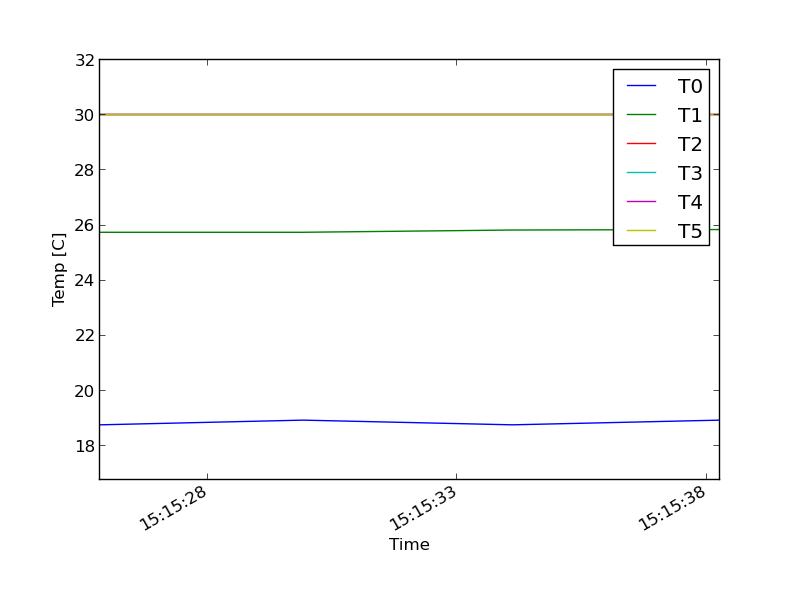
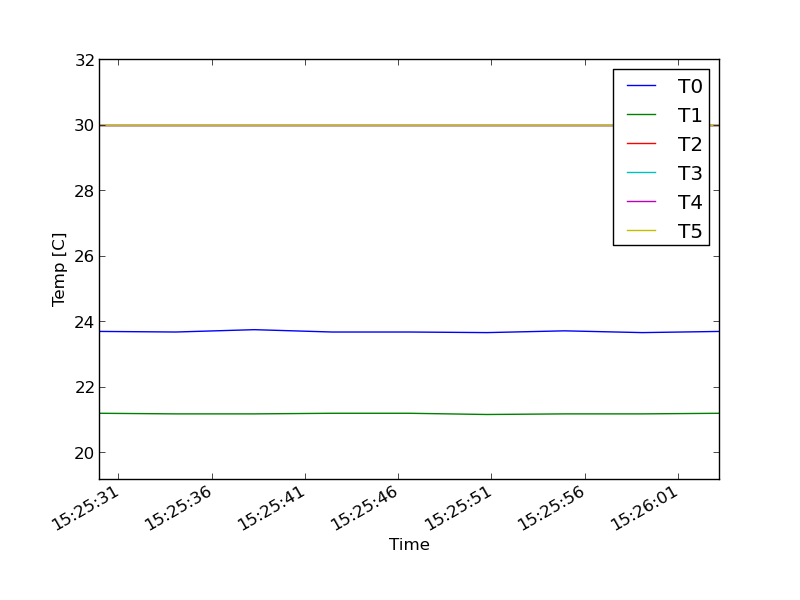
fixing for etroc on pin0 and probe on pin1

diff --git a/read_temperature.py b/read_temperature.py
@@ -12,7 +12,7 @@ from matplotlib.animation import FuncAnimation
 # *
 parser = argparse.ArgumentParser(description="Temperature measurement with ArduinoUno voltage divider")
 parser.add_argument('-o' , '--output_directory'  , dest='output_directory' , help='directory for saving text files with temp'   , required=False   , default = 'output' )
-parser.add_argument('-b' , '--board_location'    , dest='board_location'   , help='location of ArduinoUno, usually "/dev/xxxx"' , required=False   , default='/dev/ttyACM0' )
+parser.add_argument('-b' , '--board_location'    , dest='board_location'   , help='location of ArduinoUno, usually "/dev/xxxx"' , required=False   , default='/dev/ttyACM1' )
 parser.add_argument('-n' , '--num_samples'       , dest='num_samples'      , help='number of samples per ADC measurement'       , required=False   , default = 5   )
 parser.add_argument('-t' , '--thermistors'       , dest='thermistors'      , help='array of different thermistors'              , required=False   , default = ["10kPTC","5kNTC","5kNTC","5kNTC","5kNTC","5kNTC"])
 parser.add_argument('-r' , '--resistors'         , dest='resistors'        , help='array of resistor values , in ohms'          , required=False   , default = [10000, 4700, 4700, 4700, 4700, 4700] )
@@ -51,12 +51,14 @@ def getTemp10kPTC(resistance):
     # * 
     # Function to calculate temperature for any resistance, using 10k thermistor                       
     # * 
-    x_temperature = np.array([-50,-40,-30,-20,-10,0,10,20,25,30,40,50,60,70,80,90,100,110,120,130]) #Points to be used for interpolation                 
-    y_resistance  = np.array([8030.6,8427.1,8822.2,9216,9608.6,10000,10390.3,10779.4,10973.5,11167.3,11554.1,11939.7,12324.2,12707.5,13089.7,13470.7,13850.6,14229.3,14606.8,14983.2])
+    #x_temperature = np.array([-50,-40,-30,-20,-10,0,10,20,25,30,40,50,60,70,80,90,100,110,120,130]) #Points to be used for interpolation                 
+    #y_resistance  = np.array([8030.6,8427.1,8822.2,9216,9608.6,10000,10390.3,10779.4,10973.5,11167.3,11554.1,11939.7,12324.2,12707.5,13089.7,13470.7,13850.6,14229.3,14606.8,14983.2])
+    x_temperature = np.linspace(-30,30, num=61) #Points to be used for interpolation                 
+    y_resistance  = np.array([176683,166091,156199,146959,138332,130243,122687,115613,108991,102787,96974,91525,86415,81621,77121,72895,68927,65198,61693,58397,55298,5252380,49633,47047,44610,42314,40149,38108,36182,34366,32650,31030,29500,28054,26687,25395,24172,23016,21921,20885,19903,18973,18092,17257,16465,15714,15001,14324,13682,13052,12493,11943,11420,10922,10449,10000,9572,9164,8777,8407,8056])
 
     temperature = np.interp(resistance, np.sort(y_resistance), -np.sort(x_temperature))
     
-    print(resistance, temperature)
+    #print(resistance, temperature)
     # If debugging
     #plt.plot(x_temperature, y_resistance, 'o')                                                      
     #plt.show()   
@@ -131,7 +133,7 @@ class tempMeasurement():
 			# temp
 			T[pin] = getTemp(R[pin],thermistors[pin])
 
-			if pin < 2 : print("(pin,ADC,R,T) ({},{},{},{})".format(pin,adcVals[pin],R[pin],T[pin]))
+			if pin < 1 : print("(pin,ADC,R,T) ({},{},{},{})".format(pin,adcVals[pin],R[pin],T[pin]))
 		
 		
 		# debug

diff --git a/README.md b/README.md
@@ -35,3 +35,10 @@ Code to monitor temperature with ArduinoUno
     - file
   * Plots temp. v. time
   * Autoformated!
+
+
+# Helpful
+  * location of arduino is usually /dev/ttyACM*
+  * will need to do the following as root if its been disconnected
+  * $ usermod -a -G dialout daq
+  * note that ADC measurement should be of the voltage across fixed resistor, with respect to ground
